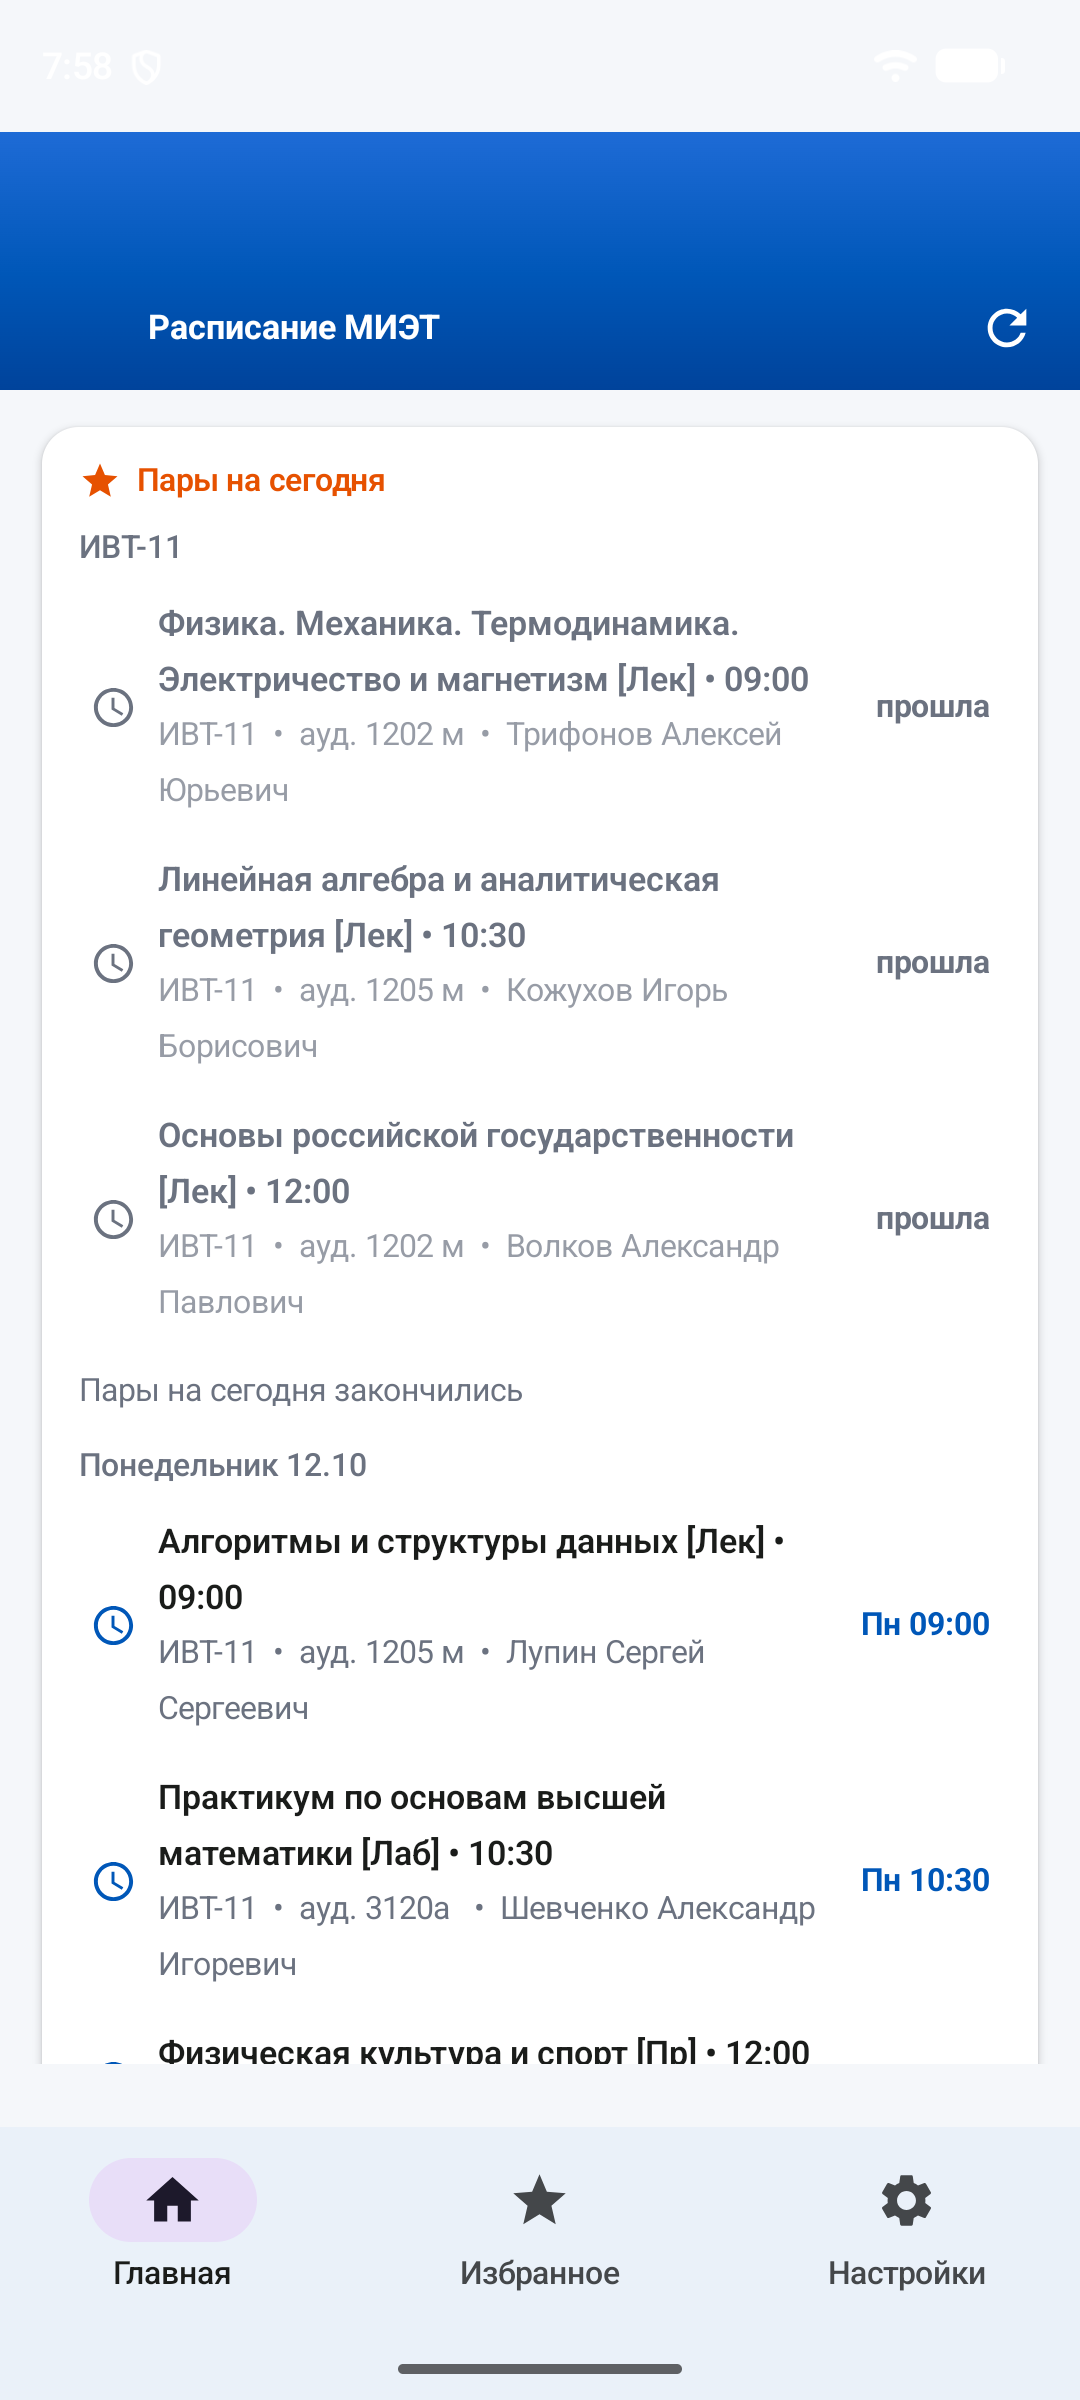
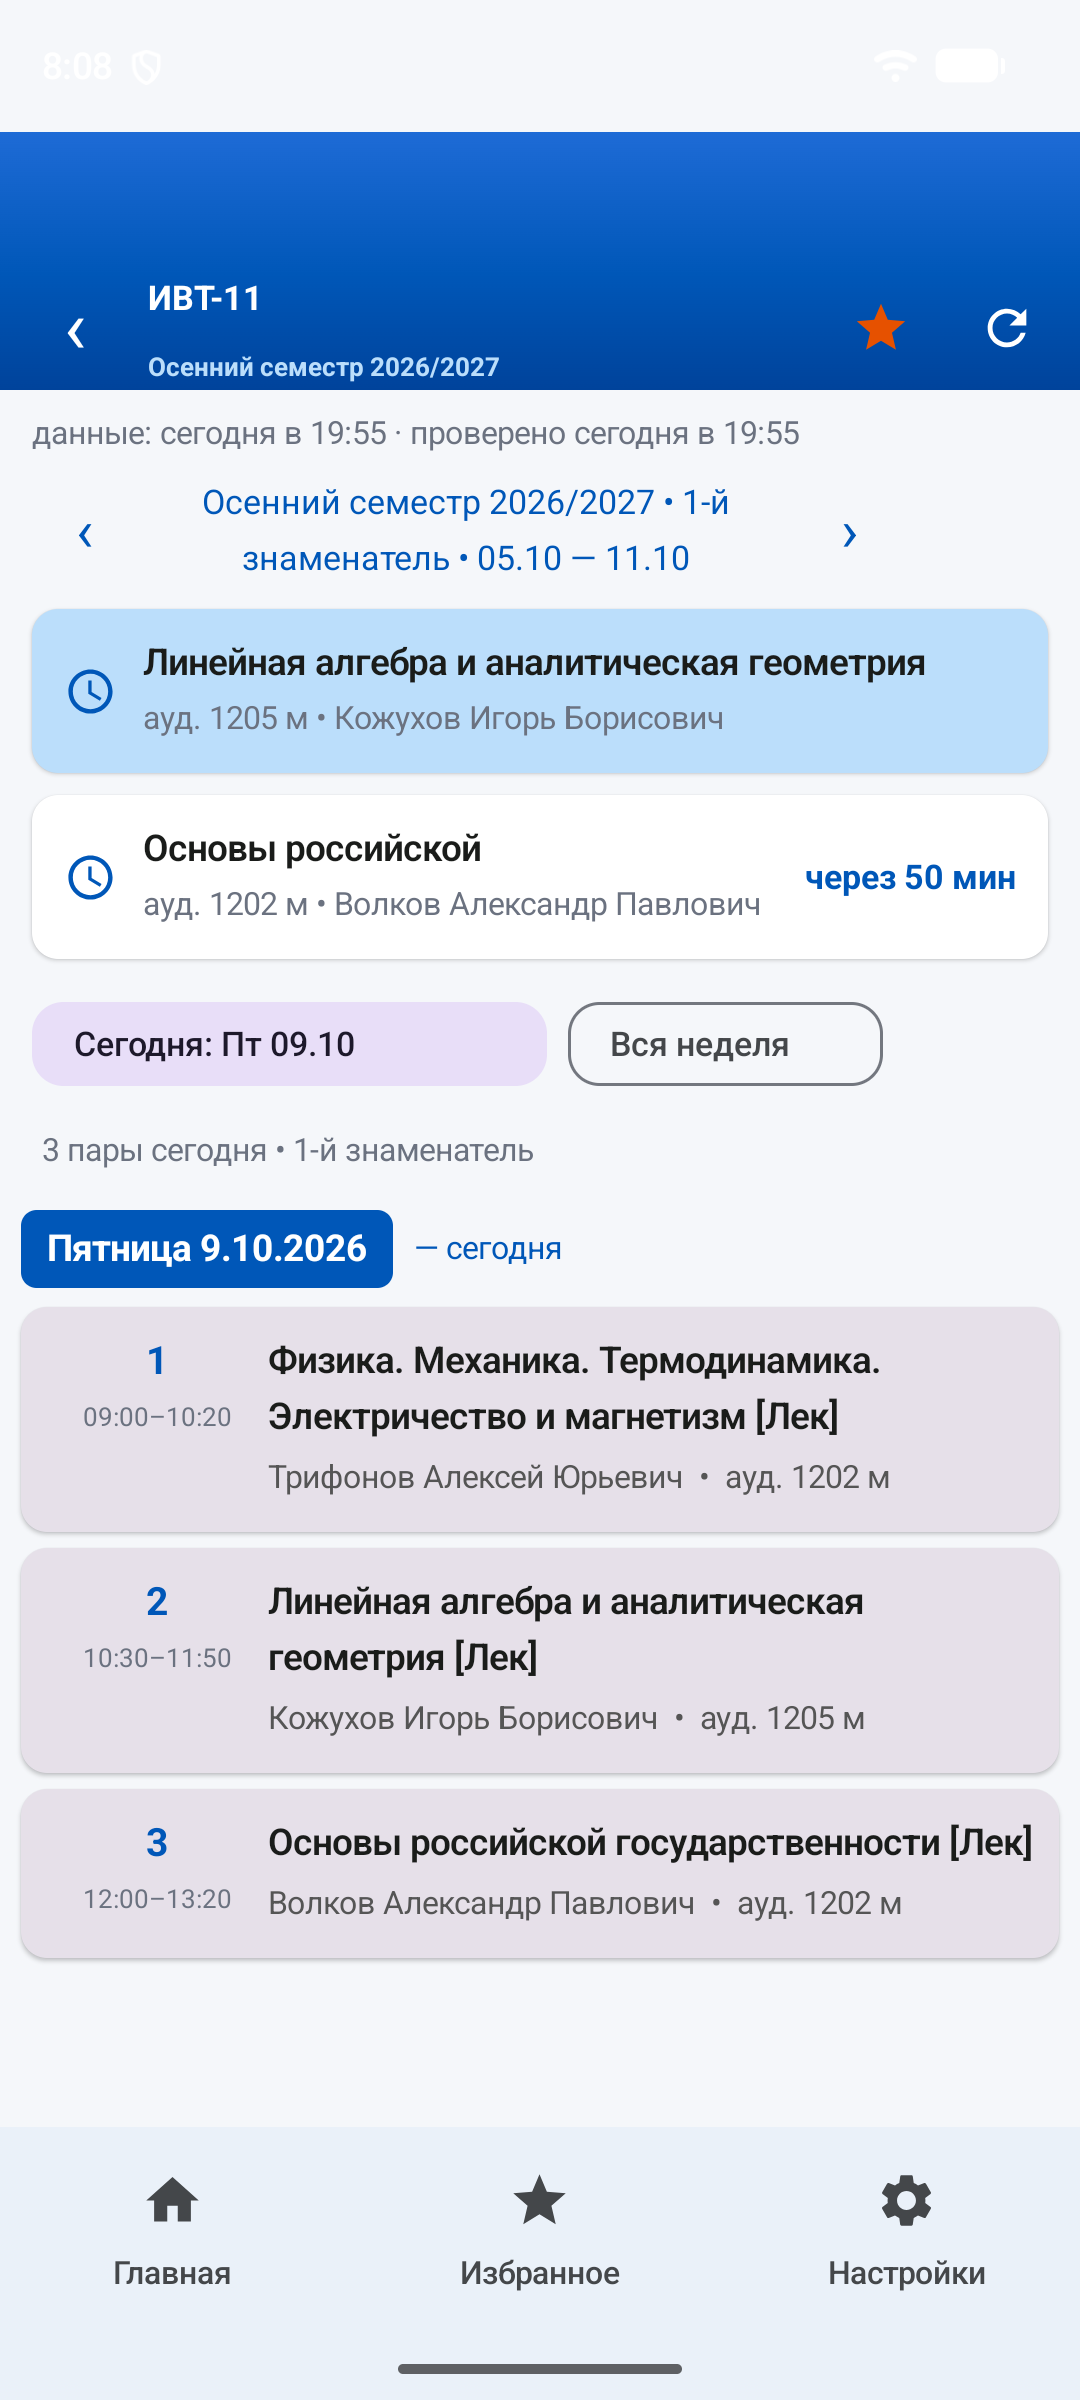
docs: скриншот 01-main — «прошла», «сейчас, осталось 40 мин», «через 50 мин»
Снят с отладочным флагом SCREENSHOT_NOW_MS (время сдвинуто на
11:10 UTC, чтобы первая пара прошла, вторая шла с остатком, третья
была впереди). Флаг возвращён в 0L — в релизе не активен. Скриншот
наглядно показывает три состояния пар на главном экране.

diff --git a/app/src/main/java/com/mietschedule/app/NextLessonCard.kt b/app/src/main/java/com/mietschedule/app/NextLessonCard.kt
@@ -1,5 +1,7 @@
 package com.mietschedule.app
 
+import com.mietschedule.app.BuildConfig
+
 import androidx.compose.foundation.clickable
 import androidx.compose.foundation.background
 import androidx.compose.foundation.layout.Column
@@ -141,11 +143,21 @@ fun NextLessonCard(
 
     // Тик раз в минуту: «через 12 минут» устаревает быстро, а перерисовывать
     // список пар из-за секунд незачем.
-    var now by remember { mutableLongStateOf(System.currentTimeMillis()) }
+    //
+    // SCREENSHOT_NOW_MS: отладочный сдвиг времени для скриншотов. В debug-
+    // сборке (через BuildConfig) задаёт фиксированный «сейчас», чтобы снять
+    // экран с идущей парой и остатком времени. В release не активен.
+    var now by remember {
+        mutableLongStateOf(
+            if (BuildConfig.SCREENSHOT_NOW_MS > 0L) BuildConfig.SCREENSHOT_NOW_MS
+            else System.currentTimeMillis()
+        )
+    }
     LaunchedEffect(Unit) {
         while (true) {
             delay(60_000)
-            now = System.currentTimeMillis()
+            now = if (BuildConfig.SCREENSHOT_NOW_MS > 0L) BuildConfig.SCREENSHOT_NOW_MS
+            else System.currentTimeMillis()
         }
     }
 

diff --git a/app/src/main/java/com/mietschedule/app/NextLessonRow.kt b/app/src/main/java/com/mietschedule/app/NextLessonRow.kt
@@ -1,5 +1,7 @@
 package com.mietschedule.app
 
+import com.mietschedule.app.BuildConfig
+
 import androidx.compose.foundation.layout.Column
 import androidx.compose.foundation.layout.Row
 import androidx.compose.foundation.layout.Spacer
@@ -53,11 +55,21 @@ fun NextLessonRow(
 ) {
     // Тик раз в минуту: «через 12 минут» устаревает быстро, а перерисовывать
     // весь список пар из-за секунд незачем.
-    var now by remember { mutableLongStateOf(System.currentTimeMillis()) }
+    //
+    // SCREENSHOT_NOW_MS: отладочный сдвиг времени для скриншотов (см.
+    // NextLessonCard). В debug задаёт фиксированное «сейчас», в release
+    // флаг отсутствует и используется системное время.
+    var now by remember {
+        mutableLongStateOf(
+            if (BuildConfig.SCREENSHOT_NOW_MS > 0L) BuildConfig.SCREENSHOT_NOW_MS
+            else System.currentTimeMillis()
+        )
+    }
     LaunchedEffect(Unit) {
         while (true) {
             delay(60_000)
-            now = System.currentTimeMillis()
+            now = if (BuildConfig.SCREENSHOT_NOW_MS > 0L) BuildConfig.SCREENSHOT_NOW_MS
+            else System.currentTimeMillis()
         }
     }
 
